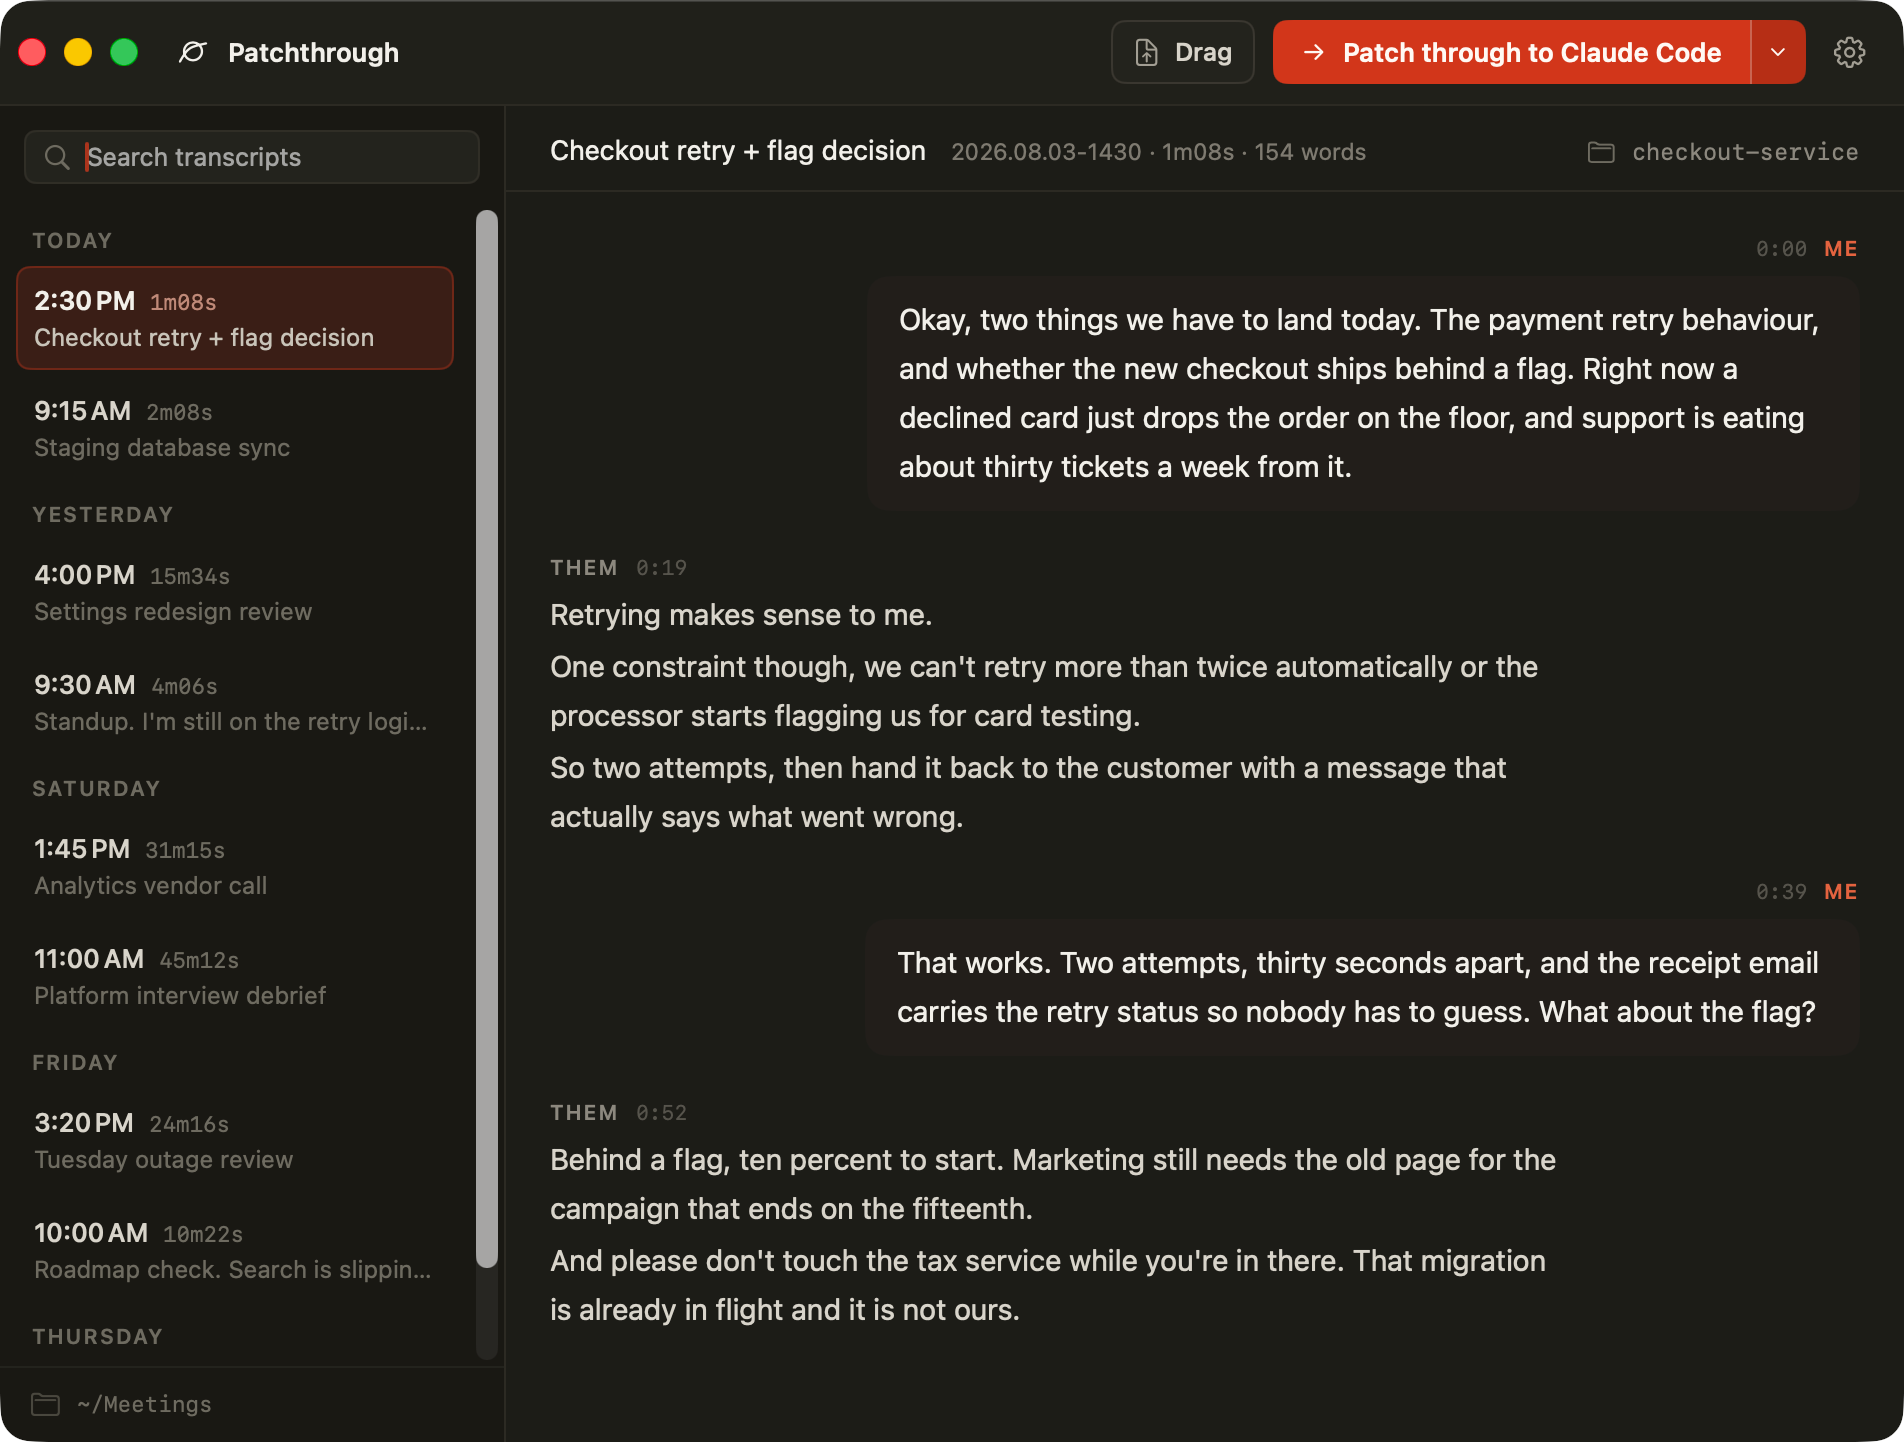
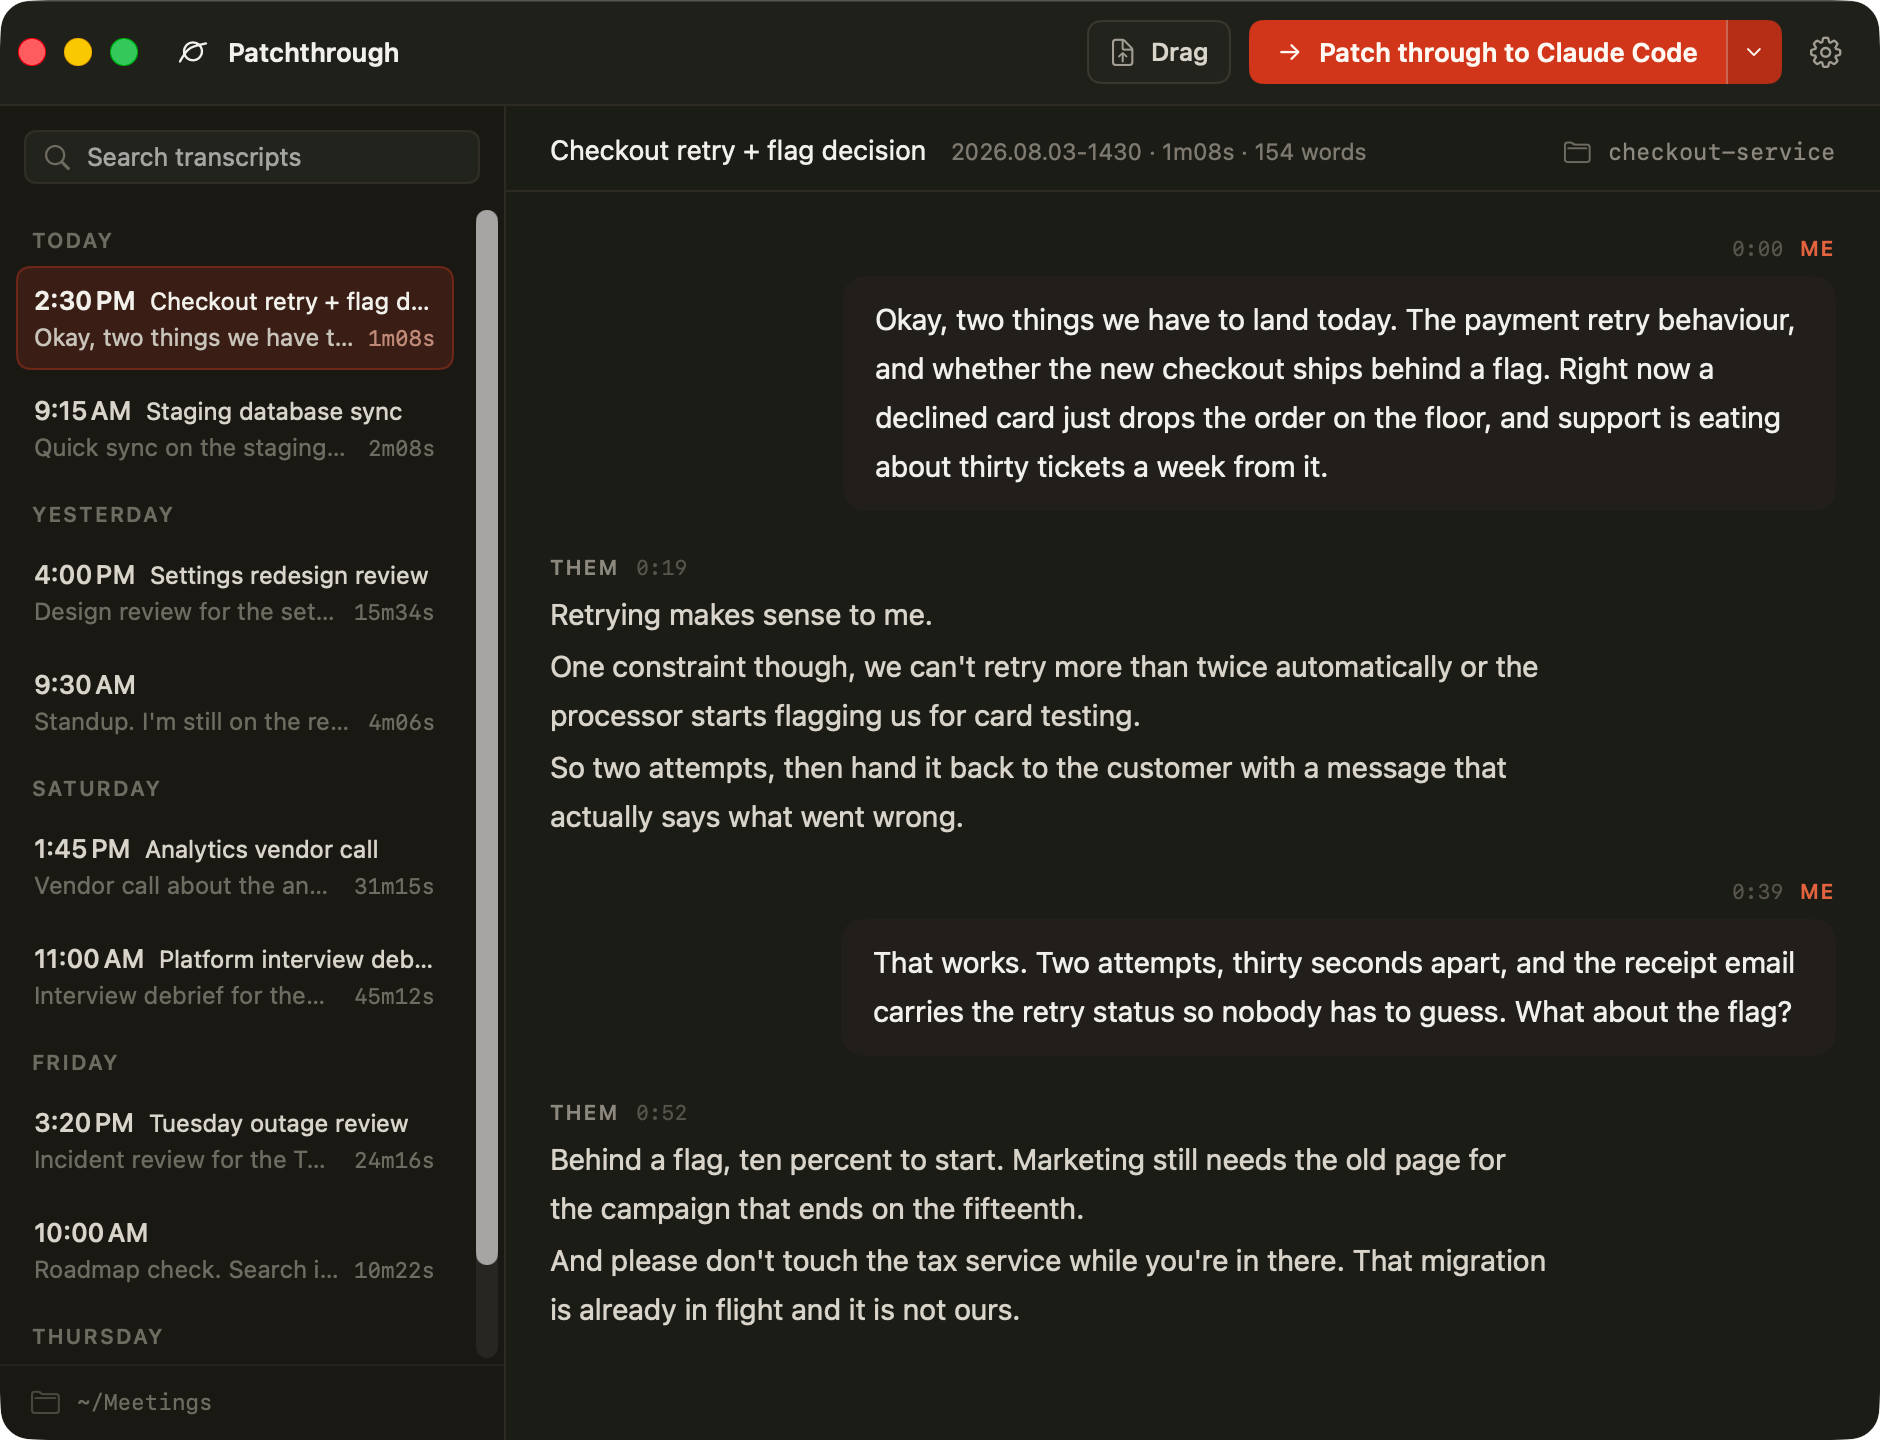
Show the new sidebar rows in the hero screenshot
The row layout changed: the meeting name now sits beside the time and the
first line of the transcript always shows below it. Recapture at 2x so the
page shows the app as it ships.

diff --git a/index.html b/index.html
@@ -409,8 +409,8 @@
 <div class="shot">
   <div class="wrap">
     <figure>
-      <img src="assets/window.png" alt="The Patchthrough window: a list of recorded meetings on the left, several of them named, a transcript on the right with every line labelled by speaker, and a red Patch through to Claude Code button in the titlebar." width="952" height="721">
-      <figcaption>Each session shows who said what. Your microphone is "me" and the audio the Mac played is "them", so the two tracks give the speaker labels directly. You do not need a model that identifies speakers. Name a meeting and the name replaces the first line everywhere.</figcaption>
+      <img src="assets/window.png" alt="The Patchthrough window: a list of recorded meetings on the left, several of them named, a transcript on the right with every line labelled by speaker, and a red Patch through to Claude Code button in the titlebar." width="940" height="720">
+      <figcaption>Each session shows who said what. Your microphone is "me" and the audio the Mac played is "them", so the two tracks give the speaker labels directly. You do not need a model that identifies speakers. Name a meeting and the name sits beside the time.</figcaption>
     </figure>
   </div>
 </div>
